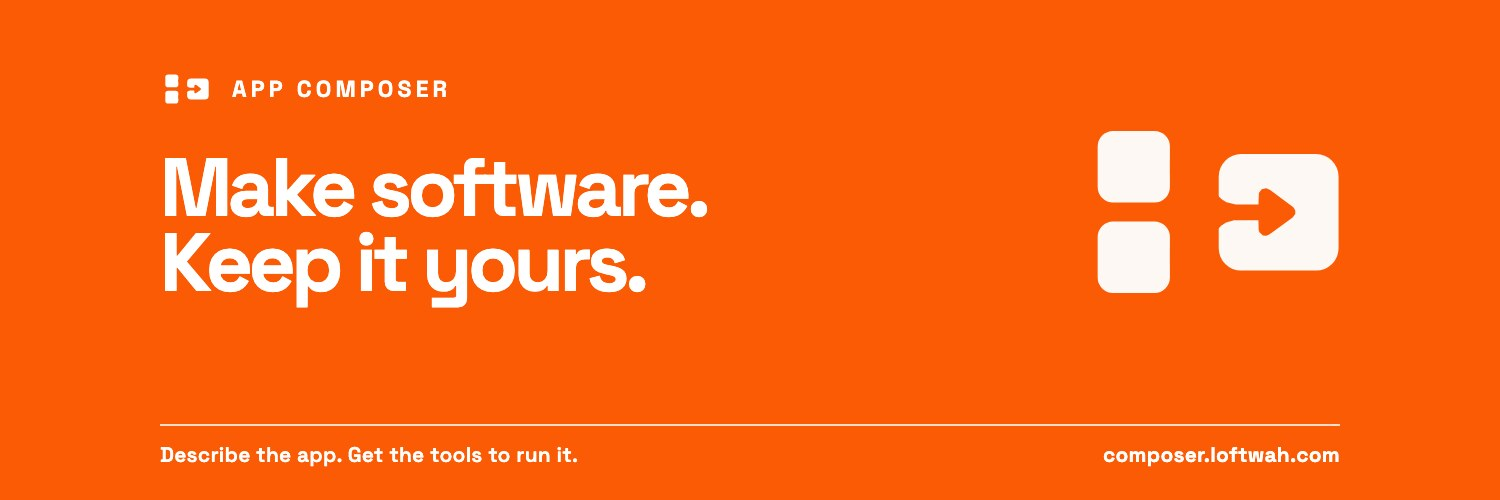
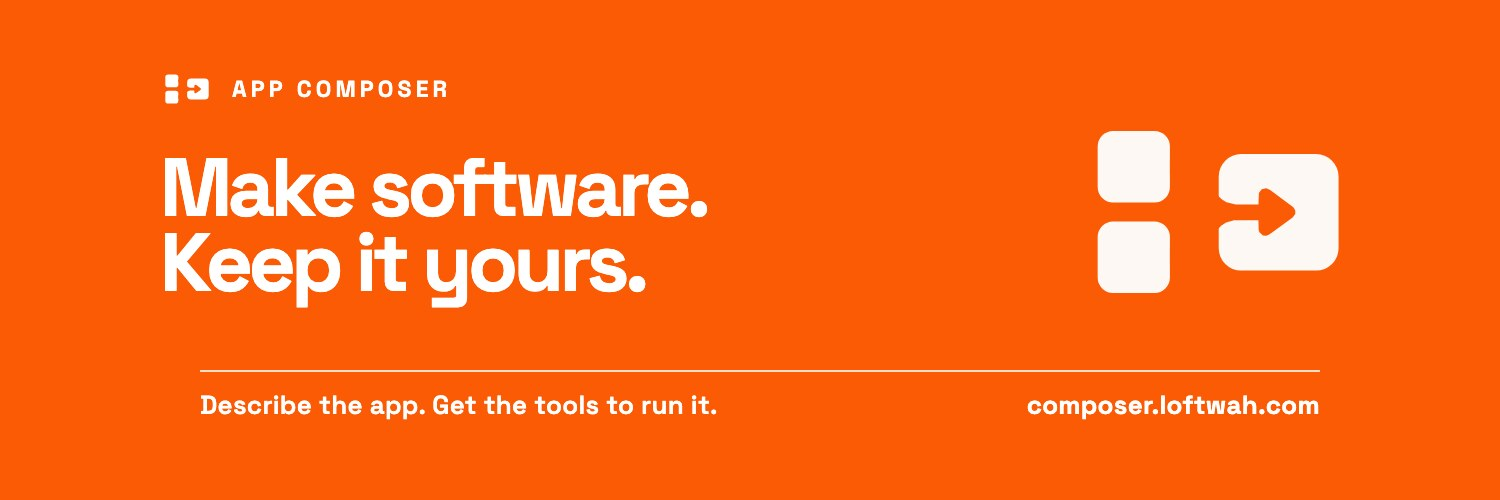
Harden the owner experience and enquiry summary
Raise the summary group bound to the export size, make both evidence tables keyboard-scrollable, keep the summary out of a retained-operation state and reject stale book responses. Fix hero contrast, remove the stray header border, clarify admin authority and export-limit wording, move the X banner footer above the avatar zone, and align the capture provenance with the shipped image.

diff --git a/src/styles/global.css b/src/styles/global.css
@@ -8,7 +8,7 @@
 }
 :root{color-scheme:dark}
 :root[data-theme="light"]{color-scheme:light;--color-background:#faf9f7;--color-foreground:#22252b;--color-muted:#5c616a;--color-surface:#efeeea;--color-field:#fff;--color-border:#b9bec5;--color-control-border:#747a85;--color-accent:#a63d08;--color-accent-hover:#8d3203;--color-selected:#fff0e5;--color-success:#246b43}
-@font-face{font-family:Space;src:url('/brand/space-latin-20261018.woff2') format('woff2');font-display:swap;font-weight:300 700}*{box-sizing:border-box}html{scroll-behavior:smooth}body{margin:0;background:var(--color-background);color:var(--color-foreground);font:17px/1.6 system-ui,sans-serif}a{color:inherit;text-decoration:none;font-weight:600}header{display:flex;align-items:center;justify-content:space-between;gap:24px;padding:22px max(24px,calc((100vw - 1280px)/2));border-bottom:1px solid var(--color-border)}header .brand{display:flex;gap:12px;align-items:center;text-decoration:none;font:600 24px Space,sans-serif;letter-spacing:-.025em}.brand img{width:38px;height:38px;flex-shrink:0;border-radius:8px}.brand>img{width:38px;height:38px;border-radius:6px;flex:none}nav{display:flex;gap:18px;flex-wrap:wrap;font-size:15px}nav a{text-decoration:none}nav a:hover{text-decoration:none}main{max-width:1328px;margin:auto;padding:48px 24px 72px}h1,h2,h3{font-family:Space,sans-serif;letter-spacing:-.03em;line-height:1.08}h1{font-size:clamp(3rem,6.8vw,6rem);font-weight:500;max-width:16ch;margin:18px 0 28px}h2{font-size:clamp(2rem,4vw,3.5rem);font-weight:500;max-width:22ch;margin:0 0 24px}h3{font-size:1.55rem;font-weight:500}p{max-width:69ch}.lede{font-size:1.35rem;line-height:1.5;max-width:44ch;color:var(--color-muted)}.hero{display:grid;grid-template-columns:1.1fr 1fr;gap:60px;align-items:center;min-height:580px;padding-bottom:64px}.hero h1 span{color:var(--color-accent)}.hero-art{width:100%;height:auto}.actions{display:flex;gap:16px;align-items:center;flex-wrap:wrap;margin:30px 0}.button,button{cursor:pointer;display:inline-flex;align-items:center;justify-content:center;padding:12px 22px;min-height:48px;border:0;border-radius:8px;background:var(--color-accent);color:#17181b;font:600 16px/1.5 system-ui;text-decoration:none;gap:8px}.button:hover,button:hover{background:var(--color-accent-hover)}.button.secondary,button.secondary{background:var(--color-surface);color:var(--color-foreground)}button:disabled{opacity:.6;cursor:wait}.section{padding:60px 0;border-top:1px solid var(--color-border)}.split{display:grid;grid-template-columns:1fr 1fr;gap:56px}.demo-images{display:grid;grid-template-columns:1fr 1fr;gap:18px}.demo-images img{width:100%;border-radius:12px;height:300px;object-fit:cover}.demo-images figcaption{font-size:.9rem;padding:10px 0}figure{margin:0}.route-row{display:grid;grid-template-columns:minmax(200px,250px) 1fr auto;gap:28px;padding:28px 0;border-bottom:1px solid var(--color-border);align-items:start}.route-row h3{margin:0}.route-row p{margin:0}.route-row h2{font-size:1.5rem;margin:0;overflow-wrap:anywhere}.ink{background:var(--color-surface);color:var(--color-foreground);padding:36px;border-radius:12px}.ink a:not(.button){color:var(--color-accent)}.ink .lede{color:var(--color-muted)}.note,.small{font-size:.9rem;color:var(--color-muted)}.ink .note{color:var(--color-muted)}footer{border-top:1px solid var(--color-border);padding:32px max(24px,calc((100vw - 1280px)/2));display:flex;justify-content:space-between;gap:28px;flex-wrap:wrap;font-size:.9rem}input,textarea,select{font:inherit;width:100%;padding:13px;border:1px solid var(--color-border);background:var(--color-field);color:var(--color-foreground);border-radius:6px;margin-top:6px}textarea{min-height:120px}label{display:block;margin:18px 0}fieldset{margin:24px 0;padding:24px;border:1px solid var(--color-border);border-radius:8px}legend{padding:0 8px;font-weight:600}code{font-size:.86em;background:var(--color-surface);padding:2px 5px;border-radius:4px;overflow-wrap:anywhere}.ink code{background:var(--color-background)}pre{white-space:pre-wrap;overflow-wrap:anywhere;background:var(--color-surface);color:var(--color-foreground);padding:24px;border-radius:8px;font-size:.85rem;max-height:450px;overflow:auto}.choice-list{display:grid;gap:12px}.choice{display:flex;gap:14px;align-items:start;padding:18px;border:1px solid var(--color-border);border-radius:8px;cursor:pointer;margin:0}.choice:has(input:checked){background:var(--color-selected);border-color:var(--color-accent)}.choice input{width:20px;margin:4px 0}.choice strong{display:block}.choice small{display:block;color:var(--color-muted)}.workbench{display:grid;grid-template-columns:1.2fr 1fr;gap:48px;align-items:start}.sticky{position:sticky;top:30px}.status{border-top:1px solid var(--color-border);padding:16px 0}.status strong{display:block}.pass{color:var(--color-success)}.pending{color:var(--color-accent)}.badge{display:inline-block;font-size:.8rem;background:var(--color-selected);color:var(--color-foreground);padding:5px 9px;border-radius:4px}ol,ul{max-width:72ch;padding-left:24px}li{margin:10px 0}:focus-visible{outline:3px solid var(--color-accent);outline-offset:4px}.skip{position:absolute;top:-100px;left:16px;background:var(--color-field);padding:12px;z-index:9}.skip:focus{top:12px}.repeat-row{display:grid;grid-template-columns:1fr 1fr auto;gap:10px;align-items:center}.repeat-row label{font-size:.9rem}hr{border:0;border-top:1px solid var(--color-border);margin:32px 0}[hidden]{display:none!important}.save-status{margin:16px 0 0;padding:14px 16px;border:1px solid var(--color-border);border-left:4px solid var(--color-accent);border-radius:6px;background:var(--color-surface);font-size:.95rem;max-width:70ch}.message{min-height:32px;max-width:70ch}details{margin:22px 0}summary{cursor:pointer;font-weight:600;min-height:44px;padding:10px 0}table{border-collapse:collapse;width:100%;font-size:.9rem}td,th{text-align:left;padding:14px 10px;border-bottom:1px solid var(--color-border);vertical-align:top}.table-wrap{overflow:auto}svg text{font-family:Space,sans-serif}.line{stroke-dasharray:600;stroke-dashoffset:0;animation:join 1.2s cubic-bezier(.16,1,.3,1)}@keyframes join{from{stroke-dashoffset:600}to{stroke-dashoffset:0}}@media(max-width:800px){header{align-items:flex-start;flex-direction:column;gap:18px}nav{gap:18px}main{padding-top:28px}.hero,.split,.workbench{grid-template-columns:1fr;gap:30px}.hero{min-height:0;padding-bottom:36px}.hero-art{max-width:500px;margin:auto}.section{padding:40px 0}.route-row{grid-template-columns:1fr;gap:12px}.sticky{position:static}h1{font-size:3.5rem;max-width:14ch}.demo-images img{height:190px}.repeat-row{grid-template-columns:1fr}.ink{padding:24px}footer{display:block}header .brand{font-size:23px}}@media(prefers-reduced-motion:reduce){html{scroll-behavior:auto}.line{animation:none}}
+@font-face{font-family:Space;src:url('/brand/space-latin-20261018.woff2') format('woff2');font-display:swap;font-weight:300 700}*{box-sizing:border-box}html{scroll-behavior:smooth}body{margin:0;background:var(--color-background);color:var(--color-foreground);font:17px/1.6 system-ui,sans-serif}a{color:inherit;text-decoration:none;font-weight:600}header{display:flex;align-items:center;justify-content:space-between;gap:24px;padding:22px max(24px,calc((100vw - 1280px)/2));border-bottom:1px solid var(--color-border)}header .brand{display:flex;gap:12px;align-items:center;text-decoration:none;font:600 24px Space,sans-serif;letter-spacing:-.025em}.brand img{width:38px;height:38px;flex-shrink:0;border-radius:8px}.brand>img{width:38px;height:38px;border-radius:6px;flex:none}nav{display:flex;gap:16px;flex-wrap:wrap;font-size:15px}nav a{text-decoration:none}nav a:hover{text-decoration:none}main{max-width:1328px;margin:auto;padding:48px 24px 72px}h1,h2,h3{font-family:Space,sans-serif;letter-spacing:-.03em;line-height:1.08}h1{font-size:clamp(3rem,6.8vw,6rem);font-weight:500;max-width:16ch;margin:18px 0 28px}h2{font-size:clamp(2rem,4vw,3.5rem);font-weight:500;max-width:22ch;margin:0 0 24px}h3{font-size:1.55rem;font-weight:500}p{max-width:69ch}.lede{font-size:1.35rem;line-height:1.5;max-width:44ch;color:var(--color-muted)}.hero{display:grid;grid-template-columns:1.1fr 1fr;gap:60px;align-items:center;min-height:580px;padding-bottom:64px}.hero h1 span{color:var(--color-accent)}.hero-art{width:100%;height:auto}.actions{display:flex;gap:16px;align-items:center;flex-wrap:wrap;margin:30px 0}.button,button{cursor:pointer;display:inline-flex;align-items:center;justify-content:center;padding:12px 22px;min-height:48px;border:0;border-radius:8px;background:var(--color-accent);color:#17181b;font:600 16px/1.5 system-ui;text-decoration:none;gap:8px}.button:hover,button:hover{background:var(--color-accent-hover)}.button.secondary,button.secondary{background:var(--color-surface);color:var(--color-foreground)}button:disabled{opacity:.6;cursor:wait}.section{padding:60px 0;border-top:1px solid var(--color-border)}.split{display:grid;grid-template-columns:1fr 1fr;gap:56px}.demo-images{display:grid;grid-template-columns:1fr 1fr;gap:18px}.demo-images img{width:100%;border-radius:12px;height:300px;object-fit:cover}.demo-images figcaption{font-size:.9rem;padding:10px 0}figure{margin:0}.route-row{display:grid;grid-template-columns:minmax(200px,250px) 1fr auto;gap:28px;padding:28px 0;border-bottom:1px solid var(--color-border);align-items:start}.route-row h3{margin:0}.route-row p{margin:0}.route-row h2{font-size:1.5rem;margin:0;overflow-wrap:anywhere}.ink{background:var(--color-surface);color:var(--color-foreground);padding:36px;border-radius:12px}.ink a:not(.button){color:var(--color-accent)}.ink .lede{color:var(--color-muted)}.note,.small{font-size:.9rem;color:var(--color-muted)}.ink .note{color:var(--color-muted)}footer{border-top:1px solid var(--color-border);padding:32px max(24px,calc((100vw - 1280px)/2));display:flex;justify-content:space-between;gap:28px;flex-wrap:wrap;font-size:.9rem}input,textarea,select{font:inherit;width:100%;padding:13px;border:1px solid var(--color-border);background:var(--color-field);color:var(--color-foreground);border-radius:6px;margin-top:6px}textarea{min-height:120px}label{display:block;margin:18px 0}fieldset{margin:24px 0;padding:24px;border:1px solid var(--color-border);border-radius:8px}legend{padding:0 8px;font-weight:600}code{font-size:.86em;background:var(--color-surface);padding:2px 5px;border-radius:4px;overflow-wrap:anywhere}.ink code{background:var(--color-background)}pre{white-space:pre-wrap;overflow-wrap:anywhere;background:var(--color-surface);color:var(--color-foreground);padding:24px;border-radius:8px;font-size:.85rem;max-height:450px;overflow:auto}.choice-list{display:grid;gap:12px}.choice{display:flex;gap:14px;align-items:start;padding:18px;border:1px solid var(--color-border);border-radius:8px;cursor:pointer;margin:0}.choice:has(input:checked){background:var(--color-selected);border-color:var(--color-accent)}.choice input{width:20px;margin:4px 0}.choice strong{display:block}.choice small{display:block;color:var(--color-muted)}.workbench{display:grid;grid-template-columns:1.2fr 1fr;gap:48px;align-items:start}.sticky{position:sticky;top:30px}.status{border-top:1px solid var(--color-border);padding:16px 0}.status strong{display:block}.pass{color:var(--color-success)}.pending{color:var(--color-accent)}.badge{display:inline-block;font-size:.8rem;background:var(--color-selected);color:var(--color-foreground);padding:5px 9px;border-radius:4px}ol,ul{max-width:72ch;padding-left:24px}li{margin:10px 0}:focus-visible{outline:3px solid var(--color-accent);outline-offset:4px}.skip{position:absolute;top:-100px;left:16px;background:var(--color-field);padding:12px;z-index:9}.skip:focus{top:12px}.repeat-row{display:grid;grid-template-columns:1fr 1fr auto;gap:10px;align-items:center}.repeat-row label{font-size:.9rem}hr{border:0;border-top:1px solid var(--color-border);margin:32px 0}[hidden]{display:none!important}.save-status{margin:16px 0 0;padding:14px 16px;border:1px solid var(--color-border);border-left:4px solid var(--color-accent);border-radius:6px;background:var(--color-surface);font-size:.95rem;max-width:70ch}.message{min-height:32px;max-width:70ch}details{margin:22px 0}summary{cursor:pointer;font-weight:600;min-height:44px;padding:10px 0}table{border-collapse:collapse;width:100%;font-size:.9rem}td,th{text-align:left;padding:14px 10px;border-bottom:1px solid var(--color-border);vertical-align:top}.table-wrap{overflow:auto}svg text{font-family:Space,sans-serif}.line{stroke-dasharray:600;stroke-dashoffset:0;animation:join 1.2s cubic-bezier(.16,1,.3,1)}@keyframes join{from{stroke-dashoffset:600}to{stroke-dashoffset:0}}@media(max-width:800px){header{align-items:flex-start;flex-direction:column;gap:18px}nav{gap:18px}main{padding-top:28px}.hero,.split,.workbench{grid-template-columns:1fr;gap:30px}.hero{min-height:0;padding-bottom:36px}.hero-art{max-width:500px;margin:auto}.section{padding:40px 0}.route-row{grid-template-columns:1fr;gap:12px}.sticky{position:static}h1{font-size:3.5rem;max-width:14ch}.demo-images img{height:190px}.repeat-row{grid-template-columns:1fr}.ink{padding:24px}footer{display:block}header .brand{font-size:23px}}@media(prefers-reduced-motion:reduce){html{scroll-behavior:auto}.line{animation:none}}
 
 .diagram-mobile{display:none}@media(max-width:600px){.diagram-wide{display:none}.diagram-mobile{display:block;list-style:none;padding:0}.diagram-mobile li{background:var(--color-surface);color:var(--color-foreground);padding:20px;margin:16px 0;border-radius:8px;position:relative}.diagram-mobile li+li:before{content:"";position:absolute;width:4px;height:16px;left:30px;top:-16px;background:var(--color-accent)}}
 

diff --git a/src/plugins/enquiries.tsx b/src/plugins/enquiries.tsx
@@ -139,6 +139,8 @@ function WorkspaceEnquiries({ search }: { search: string }) {
     [summary, setSummary] = useState<EnquirySummary>(),
     [summaryError, setSummaryError] = useState("");
   const summaryGeneration = useRef(0);
+  const resourceRef = useRef("");
+  resourceRef.current = resource;
   const [checkedAbsent, setCheckedAbsent] = useState(false);
   const [busy, setBusy] = useState(false),
     [error, setError] = useState(""),
@@ -285,9 +287,17 @@ function WorkspaceEnquiries({ search }: { search: string }) {
         })
         .strict()
         .parse(raw);
-      if (reply.summary.resource.id !== selected)
+      if (
+        reply.summary.resource.id !== selected ||
+        reply.summary.resource.workspace_id !== workspace
+      )
         throw Error("The app summarised another visitor book.");
-      if (!live.current || n !== summaryGeneration.current) return;
+      if (
+        !live.current ||
+        n !== summaryGeneration.current ||
+        resourceRef.current !== selected
+      )
+        return;
       setSummary(reply.summary);
       setSummaryError("");
     } catch (cause) {
@@ -623,6 +633,7 @@ function WorkspaceEnquiries({ search }: { search: string }) {
             value={resource}
             disabled={busy || Boolean(held)}
             onChange={(event) => {
+              summaryGeneration.current++;
               setResource(event.target.value);
               setPublication("");
               setInbox(undefined);
@@ -685,7 +696,7 @@ function WorkspaceEnquiries({ search }: { search: string }) {
           require an owner or editor membership.
         </p>
       )}
-      {canRead && resource && (
+      {canRead && resource && !held && (
         <section className="ce-summary" aria-labelledby="ce-summary-title">
           <h2 id="ce-summary-title">Enquiries by page</h2>
           <p>
@@ -701,7 +712,12 @@ function WorkspaceEnquiries({ search }: { search: string }) {
           ) : summary ? (
             summary.groups.length > 0 ? (
               <>
-                <div className="ce-summary-wrap">
+                <div
+                  className="ce-summary-wrap"
+                  role="region"
+                  aria-label="Enquiries by page table"
+                  tabIndex={0}
+                >
                   <table>
                     <caption>
                       {summary.total} retained brief
@@ -748,11 +764,11 @@ function WorkspaceEnquiries({ search }: { search: string }) {
                     </tbody>
                   </table>
                 </div>
-                {summary.capped && (
+                {summary.atExportLimit && (
                   <p className="ce-muted">
-                    This summary covers the 200 retained briefs available in the
-                    current export. Older retained briefs may sit outside that
-                    cap.
+                    This export reached Composer's 200-record acceptance limit.
+                    Older retained briefs may sit outside it; this is not a
+                    claim that the app has no further records.
                   </p>
                 )}
               </>

diff --git a/.artwork/campaign/x-banner.html b/.artwork/campaign/x-banner.html
@@ -12,8 +12,8 @@
   .lockup span{font-size:23px;font-weight:700;letter-spacing:.18em}
   h1{margin:0;position:absolute;left:160px;top:150px;font-size:82px;line-height:.92;letter-spacing:-.055em;font-weight:700;max-width:820px}
   .mark{position:absolute;right:132px;top:62px;width:300px;height:300px;opacity:.96}
-  .rule{position:absolute;left:160px;right:160px;bottom:74px;height:2px;background:rgba(255,255,255,.78)}
-  .foot{position:absolute;left:160px;right:160px;bottom:32px;display:flex;justify-content:space-between;align-items:center;gap:40px;font-size:21px;font-weight:600;letter-spacing:.01em}
+  .rule{position:absolute;left:200px;right:180px;bottom:128px;height:2px;background:rgba(255,255,255,.78)}
+  .foot{position:absolute;left:200px;right:180px;bottom:78px;display:flex;justify-content:space-between;align-items:center;gap:40px;font-size:26px;font-weight:600;letter-spacing:.01em}
   .foot span:last-child{font-weight:700}
 </style>
 </head>

diff --git a/src/lib/private-enquiries.ts b/src/lib/private-enquiries.ts
@@ -479,6 +479,7 @@ export async function manageEnquiries(ctx: Context, runtime: EnquiryRuntime) {
           b.total - a.total ||
           (b.latest ?? "").localeCompare(a.latest ?? "") ||
           String(a.stack).localeCompare(String(b.stack)) ||
+          String(a.publication).localeCompare(String(b.publication)) ||
           String(a.instance).localeCompare(String(b.instance)),
       );
       return {
@@ -490,7 +491,7 @@ export async function manageEnquiries(ctx: Context, runtime: EnquiryRuntime) {
           source: reply.source,
           resource: reply.resource,
           retentionDays: 30,
-          capped: reply.items.length >= 200,
+          atExportLimit: reply.items.length >= 200,
           total: reply.items.length,
           groups: ordered,
         }),

diff --git a/src/lib/enquiry-protocol.ts b/src/lib/enquiry-protocol.ts
@@ -139,7 +139,7 @@ export const enquirySummary = z
     source: enquirySource,
     resource,
     retentionDays: z.literal(30),
-    capped: z.boolean(),
+    atExportLimit: z.boolean(),
     total: enquiryCount,
     groups: z
       .array(
@@ -157,7 +157,7 @@ export const enquirySummary = z
           })
           .strict(),
       )
-      .max(64),
+      .max(200),
   })
   .strict();
 const operationResource = z

diff --git a/docs/private-enquiries.md b/docs/private-enquiries.md
@@ -14,7 +14,7 @@ Composer derives the workspace and binding from the current validated publicatio
 
 The Inbox distinguishes pending, reviewed, rejected and all retained entries. Review and deletion use exact resource/item revisions. Private export comes from the Guestbook API; it is never persisted in Composer. Entry text is rendered inertly; no website or image from a brief is fetched. A viewer cannot read the inbox.
 
-The Inbox also shows counts by page. It asks the app for the same bounded export, validates the resource, source and each item's provenance, then groups by the exact published stack/instance or standalone scope. The summary contains counts, publication revisions and latest dates, not brief text, contacts or visitor identity. It is capped at the 200 exported items and says so when the cap is reached; expired briefs and older additions beyond the cap are absent. “Reviewed” is an owner decision, not a sale, reply, contact or conversion.
+The Inbox also shows counts by page. It asks the app for the same bounded export, validates the resource, source and each item's provenance, then groups by the exact published stack/instance or standalone scope. The summary contains counts, publication revisions and latest dates, not brief text, contacts or visitor identity. It covers up to the 200 items Composer accepts from the export and says when that limit is reached; expired briefs and older additions beyond that limit are absent. “Reviewed” is an owner decision, not a sale, reply, contact or conversion.
 
 Each write has one operation UUID. A malformed or lost acknowledgement retains the exact source, command and revisions in tab storage without a submitted body. Receipt lookup does not resend it. Only a successful missing-receipt check offers an explicit retry of the same operation; source, authority or scope drift refuses that retry. The public form similarly retains only an opaque intent, keeps newer text after delayed acknowledgements, and offers original-snapshot retry only while the original remains in memory. Reload does not recover private draft text. Native navigation guards and public before-unload prompts preserve current unsent/unknown work; leaving deliberately may discard in-memory input.
 

diff --git a/docs/STATUS.md b/docs/STATUS.md
@@ -12,7 +12,9 @@ The Australia-first [PHP2Shell briefing](https://composer.loftwah.com/php2shell)
 
 The public [Your app, your admin](https://composer.loftwah.com/manage) explanation now connects the plain-language request to the actual owner surfaces: Creator stacks, private enquiries, workspace outcomes, workspace maintenance and workspace access, plus the app-owned studios. It uses a live published stack capture, an authored wiring diagram with a mobile text equivalent, and a status table that separates supported work, configuration and unsupported requests.
 
-The private enquiry Inbox now groups retained briefs by exact published page and app instance, with reviewed, pending and rejected counts and the latest date. It reads the app's bounded private export, validates resource/source/provenance and returns no brief text, contact field or visitor identity. The summary is capped at 200 items and stated as such. “Reviewed” remains an owner decision, not a sale, reply or conversion.
+The private enquiry Inbox now groups retained briefs by exact published page and app instance, with reviewed, pending and rejected counts and the latest date. It reads the app's bounded private export, validates resource/source/provenance and returns no brief text, contact field or visitor identity. The summary covers up to the 200 items Composer accepts and states when that limit is reached. “Reviewed” remains an owner decision, not a sale, reply or conversion.
+
+Local checks for this slice: 582 tests pass; Astro reports 0 errors/0 warnings; the production build and publication guard pass (907 files, 74 archive members). Live source/Worker identity and production interaction are recorded in #11 after the guarded release.
 
 ## Shipped and demonstrated
 

diff --git a/docs/assets/brand/PROVENANCE.md b/docs/assets/brand/PROVENANCE.md
@@ -45,7 +45,7 @@ Source files: `.artwork/campaign/php2shell-square.html`, `.artwork/campaign/php2
 | `public/brand/campaign/product-x-banner-20261022b.jpg` | 1500 × 500 | Product X profile banner. Keeps the lockup, headline and URL inside the central crop and away from the avatar overlap. |
 | `public/brand/campaign/product-x-banner-20261022b.png` | 1500 × 500 | Editable-render source for the X banner. |
 
-The 1500 × 500 X banner is a product asset, not a third campaign card. It uses the approved reverse mark, the existing product line and the clean product address. The JPEG is 47 KB; the editable HTML source is `.artwork/campaign/x-banner.html`. The article links the banner and the three campaign cards as downloads.
+The 1500 × 500 X banner is a product asset, not a third campaign card. It uses the approved reverse mark, the existing product line and the clean product address. The footer begins at x=200 and sits above the lower-left profile-avatar overlap zone. The JPEG is 49 KB; the editable HTML source is `.artwork/campaign/x-banner.html`. The article links the banner and the three campaign cards as downloads.
 
 The product card uses the approved mark and the existing product line, "Make software. Keep it yours." It is separate from the campaign card so the homepage retains a product sharing identity.
 

diff --git a/docs/admin-experience.md b/docs/admin-experience.md
@@ -30,7 +30,7 @@ Every Composer route rechecks the current role after remote waits and immediatel
 
 ## Page-level enquiry counts
 
-The Inbox calls the app's existing private export, validates the resource/source and each item's provenance, then counts by exact publication scope. It returns counts and dates, not brief text, contact fields or visitor identity. The summary is capped at the 200 exported items and states that cap when reached. “Reviewed” is an owner decision, not a sale, contact, reply or conversion. Bodies expire after 30 days; minimal receipts remain for 35. Notifications and email delivery are not implemented.
+The Inbox calls the app's existing private export, validates the resource/source and each item's provenance, then counts by exact publication scope. It returns counts and dates, not brief text, contact fields or visitor identity. The summary covers up to the 200 items Composer accepts from the export and says when that limit is reached. “Reviewed” is an owner decision, not a sale, contact, reply or conversion. Bodies expire after 30 days; minimal receipts remain for 35. Notifications and email delivery are not implemented.
 
 The page is built from the app's own records. Composer does not create a parallel enquiry database.
 

diff --git a/docs/visual-asset-inventory.md b/docs/visual-asset-inventory.md
@@ -111,7 +111,7 @@ retired `share-ai-v1`, personal-profile homepage cards and the rejected
 assembly-scene product card remain unused historical files. Do not restore them
 while replacing an icon.
 
-The [Your app, your admin](https://composer.loftwah.com/manage) page uses unedited public captures of the live Fictional Trail Notes stack at 1440 × 1000 and 390 × 844. The files and hashes are `public/guides/app-admin-20261022-trail-{desktop,phone}.png` with `public/guides/app-admin-20261022.provenance.json`. They are public page captures, not authenticated admin screens; the older dated admin captures remain historical evidence on `/guide#admin-screenshots`.
+The [Your app, your admin](https://composer.loftwah.com/manage) page uses an unedited public capture of the live Fictional Trail Notes stack at 1000 × 900. The file and hash are `public/guides/app-admin-20261022-trail-desktop.png` with `public/guides/app-admin-20261022.provenance.json`. It is a public page capture, not an authenticated admin screen; the older dated admin captures remain historical evidence on `/guide#admin-screenshots`.
 
 The PHP2Shell article uses campaign-specific artwork:
 `public/brand/campaign/php2shell-australia-20261022b-1200x630.jpg` for Open Graph/X,
